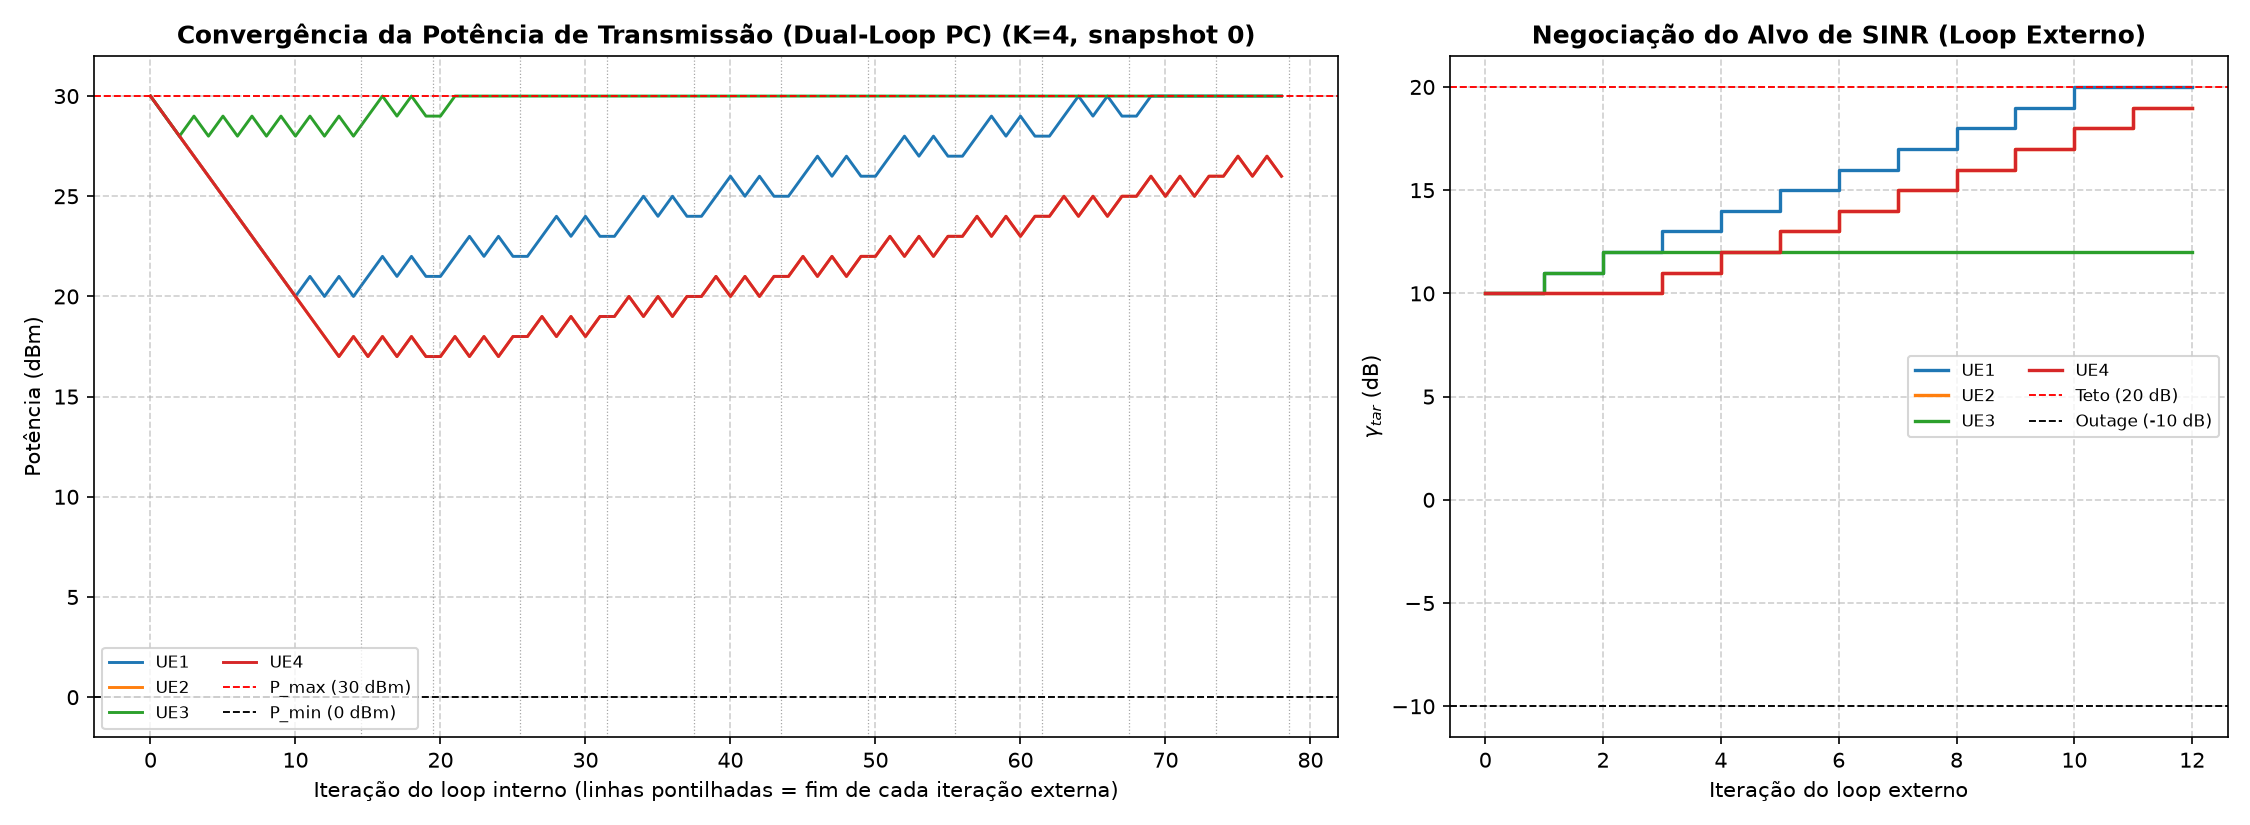
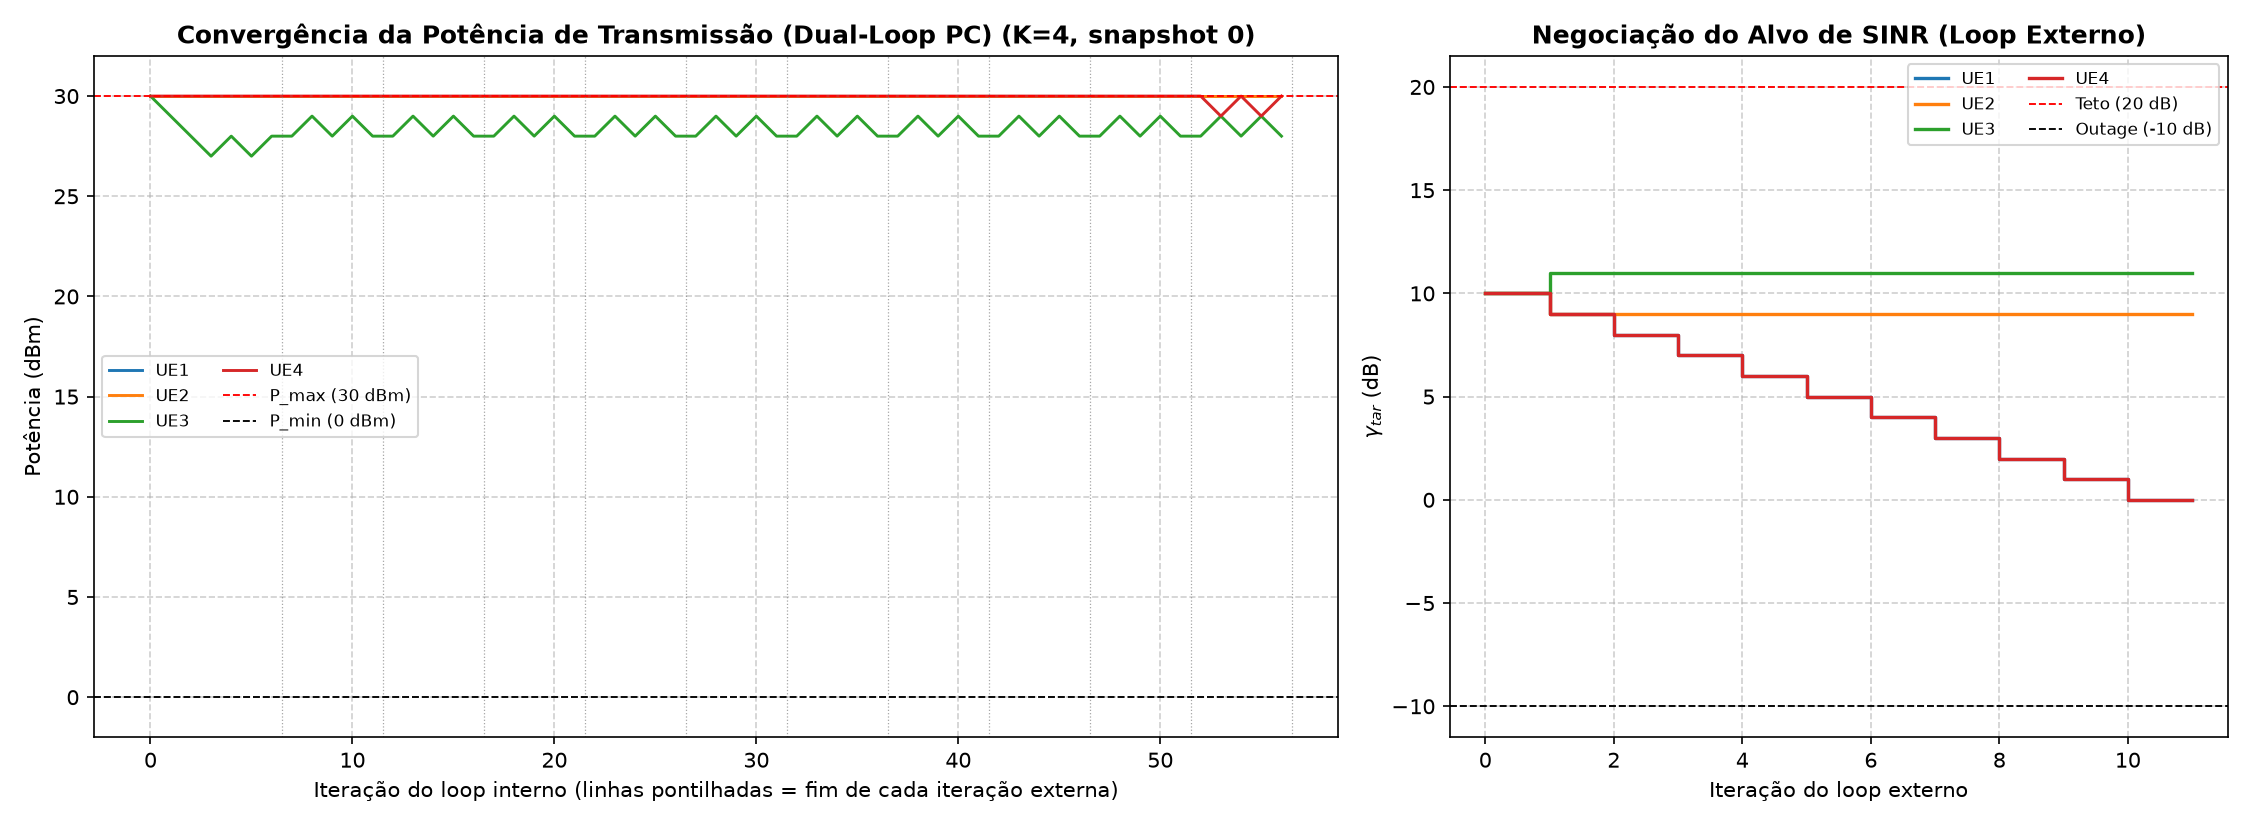
atualização do debug do dual loop

diff --git a/src/simulator/allocation.py b/src/simulator/allocation.py
@@ -1,4 +1,8 @@
-''''''''''''''''''# ---------------------------------------------------------------------------
+(
+    """"""
+    """"""
+    """"""
+)  # ---------------------------------------------------------------------------
 # allocation.py — Attach, Alocação de Canais e DPC
 # ---------------------------------------------------------------------------
 
@@ -151,14 +155,14 @@ def DPC(
 
 
 def DPC_Dual_Loop(
-    G_eff: np.ndarray,              # (K, K) -> G_eff[k,i] = ganho de canal × ganho MRC do feixe do UE k sobre o UE i, visto no AP do UE k. A diagonal contém o ganho do próprio UE k.
-    P_n: float,                     # Potência de ruído (W)
-    gamma_tar_db: np.ndarray,       # SINR alvo inicial (dB)
-    ue_active: np.ndarray,          # Vetor de ativação dos UEs (1 para ativo, 0 para inativo)
-    t_outer: int = 35,              # máximo de iterações do loop externo
-    t_inner: int = 5000,            # máximo de iterações do loop interno  
-    tol_db: float = 0.5,            # tolerância de convergência do loop externo (dB)
-    return_history: bool = False    # Se True, retorna também o histórico de potências e SINRs (para plotagem e análise)
+    G_eff: np.ndarray,  # (K, K) -> G_eff[k,i] = ganho de canal × ganho MRC do feixe do UE k sobre o UE i, visto no AP do UE k. A diagonal contém o ganho do próprio UE k.
+    P_n: float,  # Potência de ruído (W)
+    gamma_tar_db: np.ndarray,  # SINR alvo inicial (dB)
+    ue_active: np.ndarray,  # Vetor de ativação dos UEs (1 para ativo, 0 para inativo)
+    t_outer: int = 50,  # máximo de iterações do loop externo
+    t_inner: int = 5000,  # máximo de iterações do loop interno
+    tol_db: float = 0.5,  # tolerância de convergência do loop externo (dB)
+    return_history: bool = False,  # Se True, retorna também o histórico de potências e SINRs (para plotagem e análise)
 ) -> tuple:
     """
     Joint MRC & Dual-Loop Power Control.
@@ -181,8 +185,13 @@ def DPC_Dual_Loop(
     P_dbm = np.full(K, P_MAX_DBM)
 
     # Estrutura do histórico
-    hist = {"power_w": [], "sinr_lin": [], "target_db": [gamma_tar_db.copy()],
-            "outer_marks": [], "active": [ue_active.copy()]}
+    hist = {
+        "power_w": [],
+        "sinr_lin": [],
+        "target_db": [gamma_tar_db.copy()],
+        "outer_marks": [],
+        "active": [ue_active.copy()],
+    }
 
     # ---------------- LOOP EXTERNO ----------------
     for outer in range(t_outer):
@@ -195,9 +204,8 @@ def DPC_Dual_Loop(
 
         # histórico dos 2 últimos vetores de potência (dBm) desta rodada externa
         P_hist = []
-        n_ciclo = 0          # passos consecutivos com P(t) == P(t-2)
-        N_CICLO = 3          # confirmações exigidas
-
+        n_ciclo = 0  # passos consecutivos com P(t) == P(t-2)
+        N_CICLO = 3  # confirmações exigidas
 
         # ---------------- LOOP INTERNO ----------------
         for _ in range(t_inner):
@@ -239,7 +247,6 @@ def DPC_Dual_Loop(
             )
         # ---------------- FIM ----------------
 
-
         # ---------------- LOOP EXTERNO ----------------
         # Reavalia o SINR com as potências resultantes do loop interno
         p_watts = np.where(ue_active, 10.0 ** (P_dbm / 10.0) / 1000.0, 0.0)
@@ -269,7 +276,7 @@ def DPC_Dual_Loop(
 
             # Regra 3: alvo negociado caiu abaixo do limiar -> blocking (outage)
             if gamma_tar_db[k] < GAMMA_MIN_DB:
-                ue_active[k] = False      # potência vira 0 W nas próximas contas
+                ue_active[k] = False  # potência vira 0 W nas próximas contas
                 target_changed = True
             elif gamma_tar_db[k] != old_tar:
                 target_changed = True

diff --git a/research-activity-01.py b/research-activity-01.py
@@ -6,17 +6,22 @@ run_scichal4a.py — Ponto de Entrada da Simulação (SciChal4A)
 import os
 import time
 
-import numpy as np
 import matplotlib.pyplot as plt
+import numpy as np
 
 FIG_DIR = os.path.join("figures", "convergencia")
 
 # Importa as funções modulares da sua arquitetura
 from src.simulator.config import B_TOTAL
 from src.simulator.runner import simular_scichal4a
-from src.simulator.visualization import plot_all_cdfs, plot_scichal4a_kpis, plotar_convergencia_dual_loop
+from src.simulator.visualization import (
+    plot_all_cdfs,
+    plot_scichal4a_kpis,
+    plotar_convergencia_dual_loop,
+)
 
 N_HIST = 5
+
 
 def run_experiment():
     print("======================================================")
@@ -24,10 +29,10 @@ def run_experiment():
     print("======================================================")
 
     # Parâmetros do sistema
-    M = 16
+    M = 9
     N = 1
     SIM = 100  # 10 mil snapshots
-    K_scenarios = [1, 4, 8]
+    K_scenarios = [4]
 
     # Algoritmos mapeados no seu simular_scichal4a_vetorizado
     algorithms = ["full_power", "dpc_fixed", "dual_loop"]
@@ -101,7 +106,9 @@ def run_experiment():
             fig = plotar_convergencia_dual_loop(
                 h,
                 titulo_extra=f"(K={K}, snapshot {h['snapshot']})",
-                savepath=os.path.join(FIG_DIR, f"convergencia_K{K}_snap{h['snapshot']}.png"),
+                savepath=os.path.join(
+                    FIG_DIR, f"convergencia_K{K}_snap{h['snapshot']}.png"
+                ),
                 show=False,
             )
             plt.close(fig)
